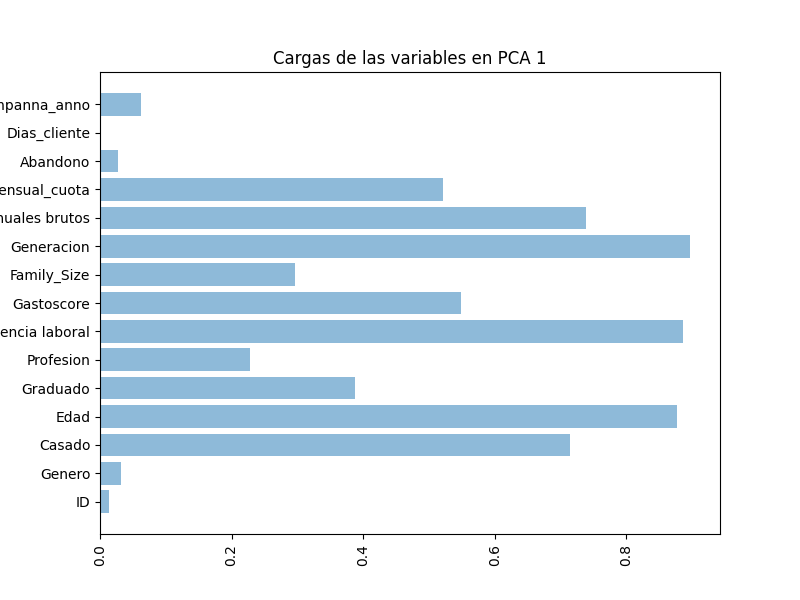
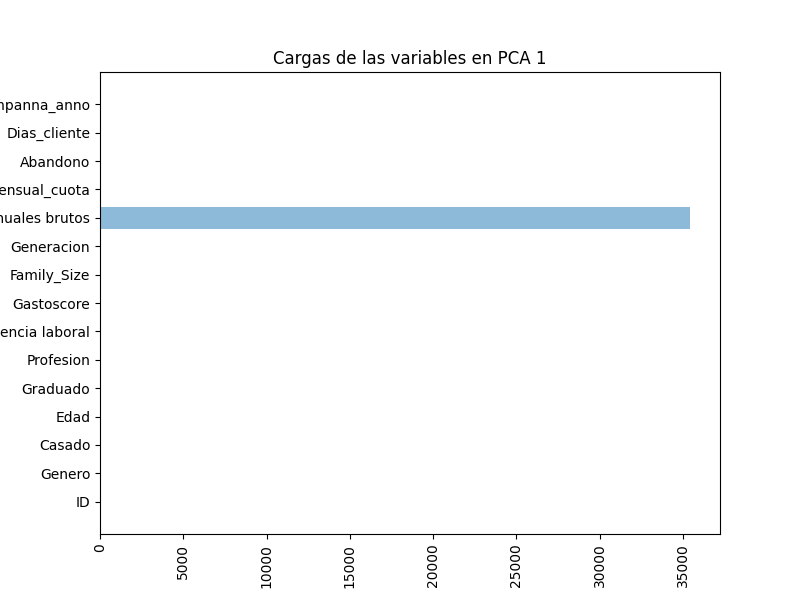
andrea come muy rapido

diff --git a/modelo.py b/modelo.py
@@ -10,12 +10,29 @@ import warnings
 from analisis_datos import df_scaled
 warnings.filterwarnings('ignore')
 
+# Identificar variables binarias y continuas
+numerical = df_scaled.select_dtypes(include=[np.number]).columns.tolist()
+binarias = []
+continuas = []
+for col in numerical:
+    unique_values = df_scaled[col].unique()
+    if sorted(unique_values) == [0, 1]:
+        binarias.append(col)
+    else:
+        continuas.append(col)
+        
+print("Variables binarias:", binarias)
+print("Variables continuas:", continuas)
+
+# Cogemos solo las variables continuas
+df_scaled_continuas = df_scaled[continuas]
+
 # 3. Calcula WCSS para diferentes valores de k
 wcss = []
 k_values = range(1, 20)  # Probar con k de 1 a 20 (ponemos que son 8 o 9 los optimos)
 for k in k_values:
     kmeans = KMeans(n_clusters=k, random_state=42)
-    kmeans.fit(df_scaled)
+    kmeans.fit(df_scaled_continuas)
     wcss.append(kmeans.inertia_)
 
 # 4. Graficar la regla del codo
@@ -33,14 +50,14 @@ from sklearn.metrics import silhouette_score, silhouette_samples
 import matplotlib.cm as cm
 
 # Calcular la puntuación de silueta para diferentes valores de k
-for k in range(5, 10):  # Evalúa de 5 a 9 clusters
+for k in range(2, 6):  # Evalúa de 5 a 9 clusters
     kmeans = KMeans(n_clusters=k, random_state=42)
-    labels = kmeans.fit_predict(df_scaled)
-    silhouette_avg = silhouette_score(df_scaled, labels)
+    labels = kmeans.fit_predict(df_scaled_continuas)
+    silhouette_avg = silhouette_score(df_scaled_continuas, labels)
     print(f"Para k = {k}, la puntuación de silueta promedio es: {silhouette_avg}")
 
     # Graficar la silueta para cada cluster
-    sample_silhouette_values = silhouette_samples(df_scaled, labels)
+    sample_silhouette_values = silhouette_samples(df_scaled_continuas, labels)
     y_lower = 10
     for i in range(k):
         ith_cluster_silhouette_values = sample_silhouette_values[labels == i]
@@ -60,34 +77,83 @@ for k in range(5, 10):  # Evalúa de 5 a 9 clusters
     plt.show()
 
 from sklearn.decomposition import PCA
-koptimo = 6
+koptimo = 3
 # Kmeans con el número óptimo de clusters
 kmeans = KMeans(n_clusters=koptimo, random_state=42)
-cluster = kmeans.fit(df_scaled)
+cluster = kmeans.fit_predict(df_scaled_continuas)
+
 
 # Añadir los labels de cluster 
-df_scaled['Cluster'] = cluster
-print(df_scaled.head())
+df_scaled_continuas['Cluster'] = cluster
+print(df_scaled_continuas.head())
+
+# Visualizar el scatter plot con la edad sin centroides
+plt.figure(figsize=(10, 6))
+sns.scatterplot(x = df_scaled_continuas['Generacion'], y = df_scaled_continuas['Campanna_anno'], data = df_scaled_continuas, hue = 'Cluster', s=100, alpha=0.5, palette='viridis')
+plt.title('Segmentación de Clientes')
+plt.xlabel('Generación')
+plt.ylabel('Campaña Año')
+plt.legend()
+plt.grid(True)
+plt.savefig('imagenes/segmentacion_clientes_sincentroides.png')
+plt.show()
 
 #Obtener los índices de las columas Generacion y Campanna_anno
-gen_index = df_scaled.index('Generacion') #ERROR AL COGER EL ÍNDICE
-campanna_index = df_scaled.index('Campanna_anno')
+gen_index = continuas.index('Generacion') #ERROR AL COGER EL ÍNDICE
+campanna_index = continuas.index('Campanna_anno')
 
 centroide = kmeans.cluster_centers_
 
-# Visualizar el scatter plot con la edad
+# Visualizar el scatter plot con la edad con centroides
 plt.figure(figsize=(10, 6))
-sns.scatterplot(x = df_scaled['Generacion'], y = df_scaled['Campanna_anno'], data = df_scaled, hue = 'Cluster', s=100, alpha=0.5, palette='viridis')
+sns.scatterplot(x = df_scaled_continuas['Generacion'], y = df_scaled_continuas['Campanna_anno'], data = df_scaled_continuas, hue = 'Cluster', s=100, alpha=0.5, palette='viridis')
 plt.scatter(centroide[:, gen_index], centroide[:, campanna_index], s=300, c='red', label='Centroides', marker='x', edgecolors='black')
 plt.title('Segmentación de Clientes')
-plt.xlabel('Edad')
-plt.ylabel('Ingresos')
+plt.xlabel('Generacion')
+plt.ylabel('Campaña Año')
 plt.legend()
 plt.grid(True)
 plt.savefig('imagenes/segmentacion_clientes.png')
 plt.show()
 
+koptimo = 2
+# Kmeans con el número óptimo de clusters
+kmeans = KMeans(n_clusters=koptimo, random_state=42)
+cluster = kmeans.fit_predict(df_scaled_continuas)
 
+
+# Añadir los labels de cluster 
+df_scaled_continuas['Cluster'] = cluster
+print(df_scaled_continuas.head())
+
+# Visualizar el scatter plot con la edad sin centroides
+plt.figure(figsize=(10, 6))
+sns.scatterplot(x = df_scaled_continuas['Generacion'], y = df_scaled_continuas['Campanna_anno'], data = df_scaled_continuas, hue = 'Cluster', s=100, alpha=0.5, palette='viridis')
+plt.title('Segmentación de Clientes')
+plt.xlabel('Generación')
+plt.ylabel('Campaña Año')
+plt.legend()
+plt.grid(True)
+plt.savefig('imagenes/segmentacion_clientes_sincentroides.png')
+plt.show()
+
+#Obtener los índices de las columas Generacion y Campanna_anno
+gen_index = continuas.index('Generacion') #ERROR AL COGER EL ÍNDICE
+campanna_index = continuas.index('Campanna_anno')
+
+centroide = kmeans.cluster_centers_
+
+# Visualizar el scatter plot con la edad con centroides
+plt.figure(figsize=(10, 6))
+sns.scatterplot(x = df_scaled_continuas['Generacion'], y = df_scaled_continuas['Campanna_anno'], data = df_scaled_continuas, hue = 'Cluster', s=100, alpha=0.5, palette='viridis')
+plt.scatter(centroide[:, gen_index], centroide[:, campanna_index], s=300, c='red', label='Centroides', marker='x', edgecolors='black')
+plt.title('Segmentación de Clientes')
+plt.xlabel('Generacion')
+plt.ylabel('Campaña Año')
+plt.legend()
+plt.grid(True)
+plt.savefig('imagenes/segmentacion_clientes.png')
+plt.show()
 
 '''# Aplicar PCA
 pca = PCA(n_components=2)  # Cambia el número de componentes si es necesario

diff --git a/analisis_datos.py b/analisis_datos.py
@@ -12,9 +12,11 @@ df = pd.read_csv('Client_segment_limpio.csv', sep=';', encoding='latin1')
 print(df.head())
 
 
-# 2. Escala los datos
+'''# 2. Escala los datos
 scaler = StandardScaler()
-df_scaled = scaler.fit_transform(df)
+df_scaled = scaler.fit_transform(df)'''
+
+df_scaled = df
 
 # 3. Los convertimos a dataframe
 df_scaled = pd.DataFrame(df_scaled, columns=df.columns)
